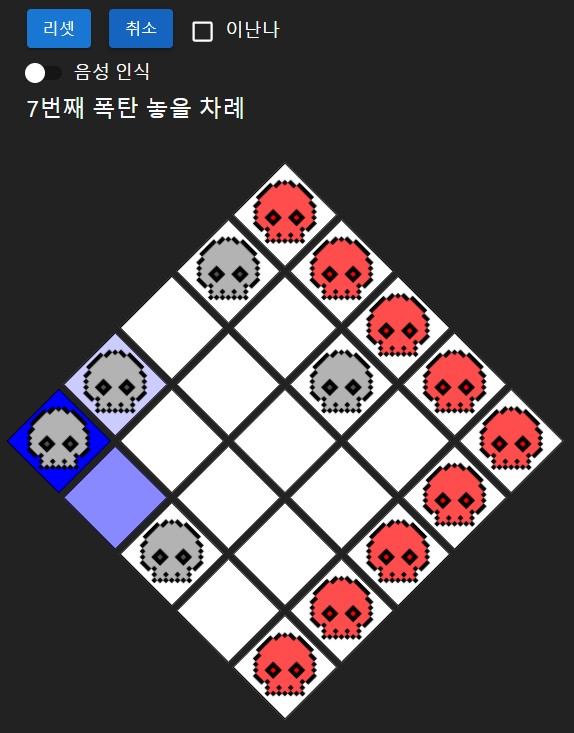
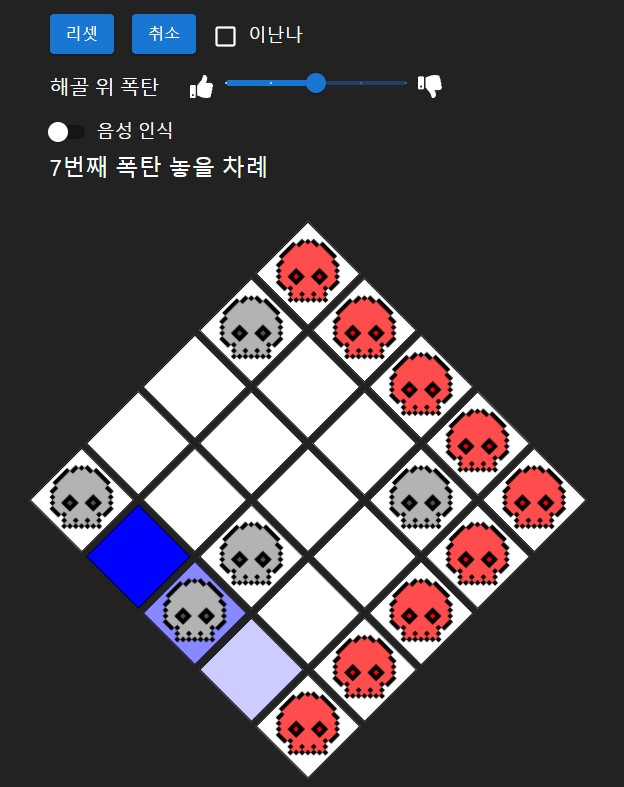
prefer skull

diff --git a/src/App.js b/src/App.js
@@ -6,9 +6,10 @@ import FormControlLabel from '@mui/material/FormControlLabel';
 import Checkbox from '@mui/material/Checkbox';
 import Switch from '@mui/material/Switch';
 import Link from '@mui/material/Link';
+import Slider from '@mui/material/Slider';
 import { FontAwesomeIcon } from '@fortawesome/react-fontawesome';
 import { faGithub } from '@fortawesome/free-brands-svg-icons';
-import { faHome } from '@fortawesome/free-solid-svg-icons';
+import { faHome, faThumbsUp, faThumbsDown } from '@fortawesome/free-solid-svg-icons';
 import SpeechRecognition, { useSpeechRecognition } from 'react-speech-recognition';
 import skullImage from './static/skull.png';
 import redSkullImage from './static/redskull.png';
@@ -26,6 +27,8 @@ function App() {
   const [isInanna, setIsInanna] = useState(false);
   const [warnMsg, setWarnMsg] = useState("");
   const [stillListening, setStillListening] = useState(false);
+  const [preferSkull, setPreferSkull] = useState(2);
+  const scoreWeight = [1e10, 2e9, 1e7, 5e4, 5e4 * 10 * preferSkull + 1e4, 100, 1];
 
   const transM = (a) => a[0].map((x, c) => a.map(r => r[c]))
   
@@ -107,20 +110,28 @@ function App() {
     const nowBingo = checkBingo(b);
     const check = [
       [false, false, false, false, false],
-      [false, true, false, false, false],
+      [false,  true, false, false, false],
       [false, false, false, false, false],
       [false, false, false, false, false],
       [false, false, false, false, false],
     ];
     const bfsq = [];
-    const isc = (x, y) => 4 - 0.5 * Math.max(Math.abs(x - 1), Math.abs(y - 1));
+
+    const isc = [
+      [  2,   2,   2,   2, 0.5],
+      [  2,  20,  10,   2, 0.5],
+      [  2,  10,   7,   2, 0.5],
+      [  2,   2,   2,   2, 0.5],
+      [0.5, 0.5, 0.5, 0.5, 0.5],
+    ]
 
     bfsq.push([1, 1]);
     for(let s = 0; s < bfsq.length; s++) {
       const tx = bfsq[s][0];
       const ty = bfsq[s][1];
-      if(!isRed(nowBingo, tx, ty)) res[0] += isc(tx, ty);
-      if(!b[tx][ty]) res[1]+= isc(tx, ty);
+      //if(!isRed(nowBingo, tx, ty)) res[0] += isc[tx][ty];
+      if(!isRed(nowBingo, tx, ty)) res[0] += 1;
+      if(!b[tx][ty]) res[1]+= isc[tx][ty];
       if(!isRed(nowBingo, tx, ty)) {
         [[1, 0], [-1, 0], [0, 1], [0, -1]].forEach(d => {
           const nx = tx + d[0];
@@ -136,8 +147,9 @@ function App() {
     }
     [0, 1, 2, 3, 4].forEach(i => {
       [0, 1, 2, 3, 4].forEach(j => {
-        if(!isRed(nowBingo, i, j)) res[2] += isc(i, j);
-        if(!b[i][j]) res[3]+= isc(i, j);
+        //if(!isRed(nowBingo, i, j)) res[2] += isc[i][j];
+        if(!isRed(nowBingo, i, j)) res[2] += 1;
+        if(!b[i][j]) res[3]+= isc[i][j];
       })
     });
     return res;
@@ -145,8 +157,7 @@ function App() {
 
   const scoreThird = (al) => {
     const res = [];
-    // 3빙고, 빨강, 가용, 해골, 빈가용, 총, 총빈
-    const scoreWeight = [1e10, 2e9, 1e7, 2e6, 1e4, 100, 1];
+    // 3빙고, 빨강, 가용, 빈가용, 해골, 총, 총빈
     const nowPlace = placeBingo(bingo[round], al);
     const nowBingo = checkBingo(nowPlace);
     for(let i = 0; i < 5; i++) {
@@ -176,8 +187,7 @@ function App() {
 
   const scoreSecond = (al) => {
     const res = [];
-    // 빨강, 가용, 해골, 빈가용, 총, 총빈
-    const scoreWeight = [2e9, 1e7, 2e6, 1e4, 100, 1];;
+    // 빨강, 가용, 빈가용, 해골, 총, 총빈
     const nowPlace = placeBingo(bingo[round], al);
     const nowBingo = checkBingo(nowPlace);
     for(let i = 0; i < 5; i++) {
@@ -192,7 +202,7 @@ function App() {
         score[4] = sp[2];
         score[5] = sp[3];
         let sc = 0;
-        for(let k = 0; k < 6; k++) sc += score[k] * scoreWeight[k];
+        for(let k = 0; k < 6; k++) sc += score[k] * scoreWeight[k + 1];
         const scThird = scoreThird([...al, [i, j]]).reduce((p, x) => Math.max(x.score, p), -1);
         res.push({
           x: i,
@@ -206,8 +216,7 @@ function App() {
 
   const scoreFirst = () => {
     const res = [];
-    // 빨강, 가용, 해골, 빈가용, 총, 총빈
-    const scoreWeight = [2e9, 1e7, 2e6, 1e4, 100, 1];;
+    // 빨강, 가용, 빈가용, 해골, 총, 총빈
     const nowPlace = bingo[round];
     const nowBingo = checkBingo(nowPlace);
     for(let i = 0; i < 5; i++) {
@@ -222,7 +231,7 @@ function App() {
         score[4] = sp[2];
         score[5] = sp[3];
         let sc = 0;
-        for(let k = 0; k < 6; k++) sc += score[k] * scoreWeight[k];
+        for(let k = 0; k < 6; k++) sc += score[k] * scoreWeight[k + 1];
         const scSecond = scoreSecond([[i, j]]).reduce((p, x) => Math.max(x.score, p), -1);
         res.push({
           x: i,
@@ -322,10 +331,14 @@ function App() {
     )
   }
 
-  const BingoTableView = useMemo(BingoTable, [bingo, round, isInanna, stillListening])
+  const BingoTableView = useMemo(BingoTable, [bingo, round, isInanna, stillListening, preferSkull])
 
   const handleInanna = (e) => {
     setIsInanna(e.target.checked);
+  }
+
+  const handlePreferSkull = (e) => {
+    setPreferSkull(e.target.value);
   }
 
   const transNum = (x) => {
@@ -415,6 +428,10 @@ function App() {
         `그런 당신을 위해 추천을 3위까지 해드립니다. 더 추천하는 자리일수록 진한 파란색으로 표시됩니다. 또한 가능한 한 세 자리 중 하나는 해골이 없는 자리가 포함되도록 했습니다.`
       ],
       [
+        `Q. 폭탄 놓으러 해골 위로 가기 싫어요.`,
+        `그런 당신을 위해 해골 위 폭탄 선호도를 조정할 수 있도록 했습니다. 왼쪽으로 갈수록 해골 여부와 상관 없이 추천하고, 오른쪽으로 갈수록 해골 위에 추천이 안 나옵니다. 맨 오른쪽으로 했는데도 해골 위에 추천이 뜨면 정말 그 자리가 좋은겁니다.`
+      ],
+      [
         `Q. 이번에 이난나 써서 넘길 건데요?`,
         `그런 당신을 위해 이난나 모드를 넣었습니다. 이난나 체크박스를 체크하시면 3빙고를 고려하지 않고 딜하기 편한지만 생각하여 추천해줍니다.\n
          단, 2번 연속으로 이난나를 쓸 경우는 없다고 생각하여 3빙고 타이밍이 지나면 자동으로 이난나 체크가 해제되도록 했습니다.`
@@ -486,7 +503,21 @@ function App() {
             </div>
             <FormControlLabel className="check" control={<Checkbox checked={isInanna} onChange={handleInanna} style={{color:'white'}}/>} label="이난나" />
           </div>
-          <div>
+          <div className="slider-container">
+            <div className="slider-desc">
+              {`해골 위 폭탄`}
+            </div>
+            <div className="slider-icon">
+              <FontAwesomeIcon icon={faThumbsUp} />
+            </div>
+            <div className="slider-wrap">
+              <Slider value={preferSkull} onChange={handlePreferSkull} step={1} marks min={0} max={4} />
+            </div>
+            <div className="slider-icon">
+              <FontAwesomeIcon icon={faThumbsDown} />
+            </div>
+          </div>
+          <div className="button-container">
             { browserSupportsSpeechRecognition ? 
               (<div className="speech">
                 <FormControlLabel control={<Switch checked={stillListening} onChange={handleSpeech} />} label="음성 인식" />

diff --git a/src/App.scss b/src/App.scss
@@ -40,11 +40,35 @@ body {
   display: flex;
   flex-direction: row;
   font-size: 1.3rem;
-  margin-top: 1rem;
+  margin-top: 0.5rem;
+  color: #FFFFFF;
 }
 
 .button-wrap {
   margin-right: 1rem;
+}
+
+.slider-container {
+  display: flex;
+  flex-direction: row;
+  font-size: 1.3rem;
+  align-items: center;
+  margin-top: 0.5rem;
+  color: #FFFFFF;
+}
+
+.slider-icon {
+  margin-left: 0.7rem;
+  margin-right:0.7rem;
+}
+
+.slider-desc {
+  font-size: 1.1rem;
+  margin-right: 1rem;
+}
+
+.slider-wrap {
+  width: 10rem;
 }
 
 .check {
@@ -159,7 +183,7 @@ body {
   flex-direction: row;
   align-items: center;
   justify-content: center;
-  margin-bottom: 2rem;
+  margin-bottom: 5rem;
 }
 
 .dona-img {

diff --git a/README.md b/README.md
@@ -24,6 +24,9 @@
 
 그런 당신을 위해 추천을 3위까지 해드립니다. 더 추천하는 자리일수록 진한 파란색으로 표시됩니다. 또한 가능한 한 세 자리 중 하나는 해골이 없는 자리가 포함되도록 했습니다.
 
+## Q. 폭탄 놓으러 해골 위로 가기 싫어요.`,
+그런 당신을 위해 해골 위 폭탄 선호도를 조정할 수 있도록 했습니다. 왼쪽으로 갈수록 해골 여부와 상관 없이 추천하고, 오른쪽으로 갈수록 해골 위에 추천이 안 나옵니다. 맨 오른쪽으로 했는데도 해골 위에 추천이 뜨면 정말 그 자리가 좋은겁니다.
+
 
 ## Q. 이번에 이난나 써서 넘길 건데요?
 
